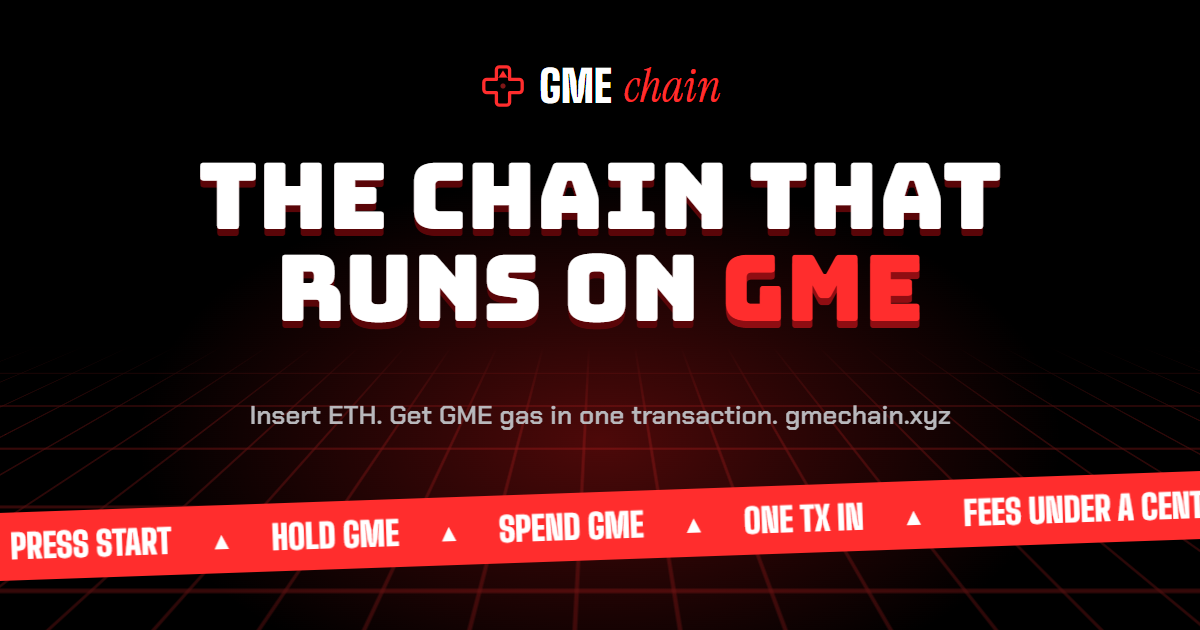
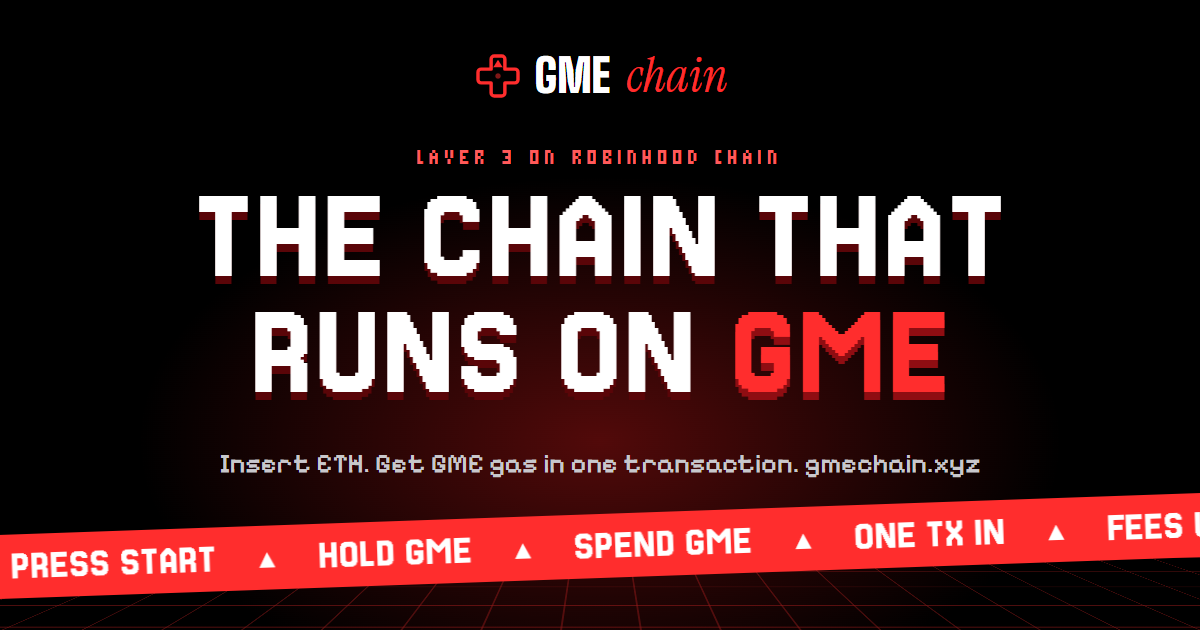
Withdrawal delivery, and link previews in the new type
- scripts/claimer.js claims confirmed withdrawals for their owners after the window (plain GME and our token
  gateways only, gas and daily caps); runs as claimer / claimer-testnet, keys generated on the server
- update-server.sh syncs the chain scripts and creates the delivery wallets
- og.png redrawn with the pixel fonts (v=3)

Changed region(s): [[0.0, 0.2413, 1.0, 1.0], [0.4008, 0.0905, 0.6167, 0.181]]

diff --git a/chain/scripts/claimer.js b/chain/scripts/claimer.js
@@ -1,0 +1,105 @@
+// Withdrawal delivery. Once the challenge window has passed, this claims every eligible withdrawal on the parent
+// chain for its owner, so nobody has to come back to press Claim. The claim pays out to the withdrawal's own
+// destination; this wallet only pays the gas. Users can still claim themselves at any time.
+//
+// Eligible: plain GME withdrawals (no calldata) of at least MIN_VALUE, and token withdrawals through our own
+// gateways. Anything else is left for its owner. Gas per claim and claims per day are capped.
+// Env: CLAIMER_PRIVATE_KEY (+ CLAIMER_ADDRESS), PARENT_RPC, L3_RPC, INTERVAL_SEC, MIN_VALUE, MAX_GAS, MAX_PER_DAY, MIN_ETH
+import http from "node:http";
+import { parseAbi, parseAbiItem, parseEther, formatEther, createPublicClient, http as viemHttp, defineChain, toHex, zeroHash, getFunctionSelector } from "viem";
+import { NETWORK, S, parentPublicClient as parent, walletClient, account, loadDeployment } from "./lib.js";
+
+if (!["mainnet", "testnet"].includes(NETWORK)) throw new Error("Run with --mainnet or --testnet.");
+const dep = loadDeployment(), C = dep.coreContracts, TB = dep.tokenBridge || null;
+const L3_RPC = process.env.L3_RPC || (NETWORK === "testnet" ? "https://rpc.testnet.gmechain.xyz" : "https://rpc.gmechain.xyz");
+const CFG = {
+  intervalSec: Number(process.env.INTERVAL_SEC || 300),
+  minValue: parseEther(process.env.MIN_VALUE || (NETWORK === "mainnet" ? "0.01" : "0")),
+  maxGas: BigInt(process.env.MAX_GAS || 400_000),
+  maxPerDay: Number(process.env.MAX_PER_DAY || 50),
+  minEth: Number(process.env.MIN_ETH || 0.0005),
+};
+const me = account("CLAIMER"), wallet = walletClient("CLAIMER");
+const l3 = createPublicClient({ chain: defineChain({ id: S.chainId, name: S.chainName, nativeCurrency: { name: "GME", symbol: "GME", decimals: 18 }, rpcUrls: { default: { http: [L3_RPC] } } }), transport: viemHttp(L3_RPC) });
+const ARBSYS = "0x0000000000000000000000000000000000000064", NODE_IF = "0x00000000000000000000000000000000000000C8";
+const L2ToL1Tx = parseAbiItem("event L2ToL1Tx(address caller, address indexed destination, uint256 indexed hash, uint256 indexed position, uint256 arbBlockNum, uint256 ethBlockNum, uint256 timestamp, uint256 callvalue, bytes data)");
+const oAbi = parseAbi(["function isSpent(uint256) view returns (bool)", "function roots(bytes32) view returns (bytes32)", "function executeTransaction(bytes32[],uint256,address,address,uint256,uint256,uint256,uint256,bytes)"]);
+const proofAbi = parseAbi(["function constructOutboxProof(uint64,uint64) view returns (bytes32,bytes32,bytes32[])"]);
+const FINALIZE = getFunctionSelector("finalizeInboundTransfer(address,address,address,uint256,bytes)");
+const parentGw = new Set(TB ? [TB.parentChainContracts.standardGateway, TB.parentChainContracts.customGateway].map((a) => a.toLowerCase()) : []);
+const childGw = new Set(TB ? [TB.orbitChainContracts.standardGateway, TB.orbitChainContracts.customGateway].map((a) => a.toLowerCase()) : []);
+
+const log = (msg, extra = {}) => console.log(JSON.stringify({ t: new Date().toISOString(), msg, ...extra }));
+const status = { ok: false, network: NETWORK, wallet: me.address, claimed: 0, skipped: 0, pending: 0, lastTick: null, lastClaim: null, lastError: null, eth: null };
+
+function eligible(a) {
+  const data = (a.data || "0x").toLowerCase();
+  if (data === "0x") return a.callvalue >= CFG.minValue ? null : "below the minimum value";
+  if (parentGw.has(a.destination.toLowerCase()) && childGw.has(a.caller.toLowerCase()) && data.startsWith(FINALIZE)) return null; // token withdrawal
+  return "carries a contract call";
+}
+
+let nextBlock = 0n;
+const queue = new Map(); // position -> withdrawal args, until claimed or skipped
+const skipped = new Set();
+let day = "", today = 0;
+
+async function confirmedCount(blockNums) {
+  for (const bn of [...blockNums].sort((a, b) => (a < b ? 1 : -1))) {
+    const b = await l3.request({ method: "eth_getBlockByNumber", params: [toHex(bn), false] });
+    if (!b?.sendRoot || b.sendRoot === zeroHash) continue;
+    const root = await parent.readContract({ address: C.outbox, abi: oAbi, functionName: "roots", args: [b.sendRoot] });
+    if (root && root !== zeroHash) return BigInt(b.sendCount);
+  }
+  return 0n;
+}
+
+async function tick() {
+  const d = new Date().toISOString().slice(0, 10);
+  if (d !== day) { day = d; today = 0; }
+  const head = await l3.getBlockNumber();
+  for (let from = nextBlock; from <= head; from += 50_000n) {
+    const to = from + 49_999n > head ? head : from + 49_999n;
+    for (const l of await l3.getLogs({ address: ARBSYS, event: L2ToL1Tx, fromBlock: from, toBlock: to })) {
+      const a = { ...l.args, blockNumber: l.blockNumber };
+      if (queue.has(a.position) || skipped.has(a.position)) continue;
+      const why = eligible(a);
+      if (why) { skipped.add(a.position); status.skipped++; log("left for its owner", { position: String(a.position), why }); continue; }
+      queue.set(a.position, a);
+    }
+  }
+  nextBlock = head + 1n;
+  if (queue.size !== status.pending) log("waiting for the window", { pending: queue.size, positions: [...queue.keys()].map(String) });
+  status.pending = queue.size;
+  if (!queue.size) return;
+
+  const eth = Number(formatEther(await parent.getBalance({ address: me.address })));
+  status.eth = eth;
+  if (eth < CFG.minEth) { log("WARNING claimer ETH low, claims paused", { eth }); return; }
+  const size = await confirmedCount(new Set([...queue.values()].map((a) => a.blockNumber)));
+  for (const [pos, a] of [...queue].sort((x, y) => (x[0] < y[0] ? -1 : 1))) {
+    if (pos >= size) continue; // window not over yet
+    if (await parent.readContract({ address: C.outbox, abi: oAbi, functionName: "isSpent", args: [pos] })) { queue.delete(pos); continue; } // the owner claimed it
+    if (today >= CFG.maxPerDay) { log("daily cap reached", { cap: CFG.maxPerDay }); break; }
+    const [, , proof] = await l3.readContract({ address: NODE_IF, abi: proofAbi, functionName: "constructOutboxProof", args: [size, pos] });
+    const args = [proof, pos, a.caller, a.destination, a.arbBlockNum, a.ethBlockNum, a.timestamp, a.callvalue, a.data];
+    const gas = await parent.estimateContractGas({ address: C.outbox, abi: oAbi, functionName: "executeTransaction", args, account: me.address });
+    if (gas > CFG.maxGas) { queue.delete(pos); skipped.add(pos); status.skipped++; log("left for its owner", { position: String(pos), why: `needs ${gas} gas` }); continue; }
+    const hash = await wallet.writeContract({ address: C.outbox, abi: oAbi, functionName: "executeTransaction", args, gas: (gas * 12n) / 10n });
+    const r = await parent.waitForTransactionReceipt({ hash });
+    queue.delete(pos); today++;
+    if (r.status === "success") { status.claimed++; status.lastClaim = { at: new Date().toISOString(), position: String(pos), to: a.destination, value: formatEther(a.callvalue), tx: hash }; log("delivered", status.lastClaim); }
+    else log("claim reverted", { position: String(pos), tx: hash });
+  }
+  status.pending = queue.size;
+}
+
+async function loop() {
+  try { await tick(); status.ok = true; status.lastError = null; }
+  catch (e) { status.ok = false; status.lastError = { at: new Date().toISOString(), message: (e.shortMessage || e.message || String(e)).split("\n")[0] }; log("error", status.lastError); }
+  finally { status.lastTick = new Date().toISOString(); setTimeout(loop, CFG.intervalSec * 1000); }
+}
+
+http.createServer((q, r) => { r.writeHead(status.ok ? 200 : 503, { "content-type": "application/json" }); r.end(JSON.stringify(status)); }).listen(8080);
+log("claimer up", { network: NETWORK, wallet: me.address, minValue: formatEther(CFG.minValue), maxGas: String(CFG.maxGas), maxPerDay: CFG.maxPerDay });
+loop();

diff --git a/site/bridge/index.html b/site/bridge/index.html
@@ -12,11 +12,11 @@
   <meta property="og:title" content="GME CHAIN Bridge">
   <meta property="og:description" content="Bridge the GME Stock Token between Robinhood Chain and GME CHAIN. Deposits arrive as gas in about a minute; withdrawals are claimed after the challenge window.">
   <meta property="og:url" content="https://gmechain.xyz/bridge/">
-  <meta property="og:image" content="https://gmechain.xyz/og.png?v=2">
+  <meta property="og:image" content="https://gmechain.xyz/og.png?v=3">
   <meta property="og:image:width" content="1200">
   <meta property="og:image:height" content="630">
   <meta name="twitter:card" content="summary_large_image">
-  <meta name="twitter:image" content="https://gmechain.xyz/og.png?v=2">
+  <meta name="twitter:image" content="https://gmechain.xyz/og.png?v=3">
   <meta name="twitter:site" content="@GMEChainXYZ">
   <!-- @head -->
 <meta name="theme-color" content="#000000">

diff --git a/site/docs/index.html b/site/docs/index.html
@@ -12,11 +12,11 @@
   <meta property="og:title" content="GME CHAIN Docs">
   <meta property="og:description" content="GME CHAIN documentation: what the chain is, why gas is paid in the GME Stock Token, bridging, the exchange, the $GMEC token, developer reference and risks.">
   <meta property="og:url" content="https://gmechain.xyz/docs/">
-  <meta property="og:image" content="https://gmechain.xyz/og.png?v=2">
+  <meta property="og:image" content="https://gmechain.xyz/og.png?v=3">
   <meta property="og:image:width" content="1200">
   <meta property="og:image:height" content="630">
   <meta name="twitter:card" content="summary_large_image">
-  <meta name="twitter:image" content="https://gmechain.xyz/og.png?v=2">
+  <meta name="twitter:image" content="https://gmechain.xyz/og.png?v=3">
   <meta name="twitter:site" content="@GMEChainXYZ">
   <!-- @head -->
 <meta name="theme-color" content="#000000">

diff --git a/site/index.html b/site/index.html
@@ -12,11 +12,11 @@
   <meta property="og:title" content="GME CHAIN · The chain that runs on GME">
   <meta property="og:description" content="Bring ETH, get GME gas in one transaction. A fast, Ethereum-secured chain where every fee is paid in GME.">
   <meta property="og:url" content="https://gmechain.xyz/">
-  <meta property="og:image" content="https://gmechain.xyz/og.png?v=2">
+  <meta property="og:image" content="https://gmechain.xyz/og.png?v=3">
   <meta property="og:image:width" content="1200">
   <meta property="og:image:height" content="630">
   <meta name="twitter:card" content="summary_large_image">
-  <meta name="twitter:image" content="https://gmechain.xyz/og.png?v=2">
+  <meta name="twitter:image" content="https://gmechain.xyz/og.png?v=3">
   <meta name="twitter:site" content="@GMEChainXYZ">
   <script>document.documentElement.classList.add("js");</script>
   <!-- @head -->

diff --git a/site/roadmap/index.html b/site/roadmap/index.html
@@ -12,11 +12,11 @@
   <meta property="og:title" content="GME CHAIN Roadmap">
   <meta property="og:description" content="GME CHAIN roadmap: what is live today, what comes next and what is planned, for the testnet, the $GMEC token and mainnet.">
   <meta property="og:url" content="https://gmechain.xyz/roadmap/">
-  <meta property="og:image" content="https://gmechain.xyz/og.png?v=2">
+  <meta property="og:image" content="https://gmechain.xyz/og.png?v=3">
   <meta property="og:image:width" content="1200">
   <meta property="og:image:height" content="630">
   <meta name="twitter:card" content="summary_large_image">
-  <meta name="twitter:image" content="https://gmechain.xyz/og.png?v=2">
+  <meta name="twitter:image" content="https://gmechain.xyz/og.png?v=3">
   <meta name="twitter:site" content="@GMEChainXYZ">
   <!-- @head -->
 <meta name="theme-color" content="#000000">

diff --git a/site/explorer/index.html b/site/explorer/index.html
@@ -12,11 +12,11 @@
   <meta property="og:title" content="GME CHAIN Explorer">
   <meta property="og:description" content="Explore GME CHAIN: blocks, transactions and addresses, live from the chain. Mainnet and testnet.">
   <meta property="og:url" content="https://gmechain.xyz/explorer/">
-  <meta property="og:image" content="https://gmechain.xyz/og.png?v=2">
+  <meta property="og:image" content="https://gmechain.xyz/og.png?v=3">
   <meta property="og:image:width" content="1200">
   <meta property="og:image:height" content="630">
   <meta name="twitter:card" content="summary_large_image">
-  <meta name="twitter:image" content="https://gmechain.xyz/og.png?v=2">
+  <meta name="twitter:image" content="https://gmechain.xyz/og.png?v=3">
   <meta name="twitter:site" content="@GMEChainXYZ">
   <!-- @head -->
 <meta name="theme-color" content="#000000">

diff --git a/site/swap/index.html b/site/swap/index.html
@@ -12,11 +12,11 @@
   <meta property="og:title" content="GME CHAIN Swap">
   <meta property="og:description" content="The exchange of GME CHAIN: swap tokens and provide liquidity, with gas paid in GME.">
   <meta property="og:url" content="https://gmechain.xyz/swap/">
-  <meta property="og:image" content="https://gmechain.xyz/og.png?v=2">
+  <meta property="og:image" content="https://gmechain.xyz/og.png?v=3">
   <meta property="og:image:width" content="1200">
   <meta property="og:image:height" content="630">
   <meta name="twitter:card" content="summary_large_image">
-  <meta name="twitter:image" content="https://gmechain.xyz/og.png?v=2">
+  <meta name="twitter:image" content="https://gmechain.xyz/og.png?v=3">
   <meta name="twitter:site" content="@GMEChainXYZ">
   <!-- @head -->
 <meta name="theme-color" content="#000000">

diff --git a/docs/vps-guide.md b/docs/vps-guide.md
@@ -11,6 +11,7 @@ Satu VPS Hostinger menjalankan semuanya lewat Docker Compose di [`deploy/vps/`](
 | `nitro-testnet` | `testnet` | Node testnet, RPC `rpc.testnet.gmechain.xyz` |
 | `faucet` | `testnet` | "Get test kit" di `gmechain.xyz/api/faucet` |
 | `pulse` | `testnet` | Transaksi tes kecil tiap beberapa menit, supaya explorer testnet selalu hidup |
+| `claimer`, `claimer-testnet` | `chain`, `testnet` | Withdrawal delivery: setelah challenge window, klaim withdraw user di Robinhood Chain secara otomatis (gas dibayar wallet ini) |
 
 ## Server
 
@@ -39,6 +40,7 @@ Tidak pernah di-commit. Semua `chmod 600`.
 | `chain/nodeConfig.testnet.json` | Sama, untuk testnet |
 | `deploy/vps/secrets/keeper.env`, `monitor.env` | Kunci keeper, setting monitor dan alert |
 | `deploy/vps/secrets/faucet.env`, `pulse.env` | Kunci faucet dan pulse (testnet saja) |
+| `deploy/vps/secrets/claimer.env`, `claimer-testnet.env` | Kunci wallet withdrawal delivery. Dibuat otomatis di server oleh `update-server.sh`, tidak pernah keluar dari server; isi ETH ke alamat yang dicetaknya |
 
 Kunci deployer tidak pernah ada di server; deploy kontrak dikerjakan dari laptop.
 
